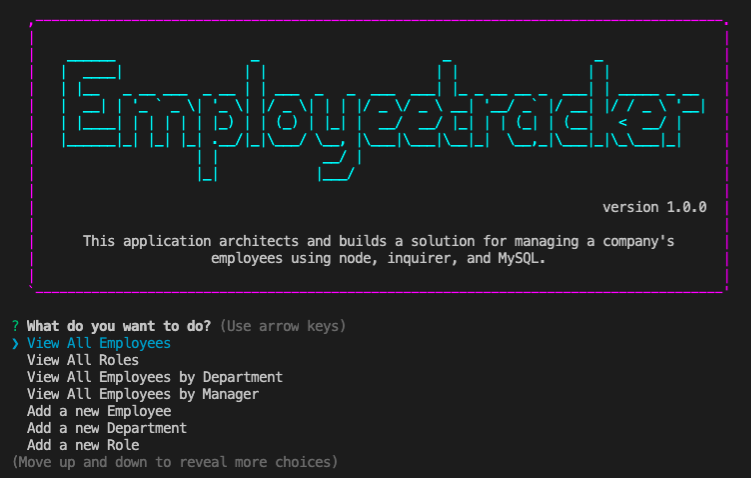
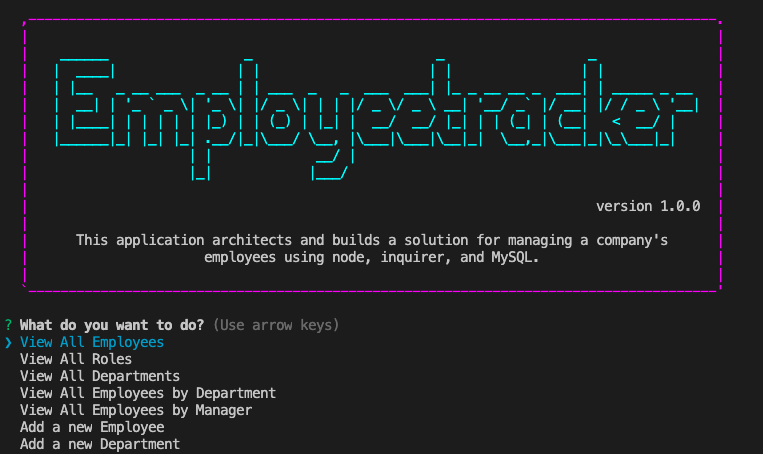
image added, unnecessary codes removed, and updated readme

Changed region(s): [[0.0, 0.0308, 0.98, 1.0]]

diff --git a/server.js b/server.js
@@ -59,6 +59,7 @@ function startSearch() {
         choices: [
           "View All Employees",
           "View All Roles",
+          "View All Departments",
           "View All Employees by Department",
           "View All Employees by Manager",
           "Add a new Employee",
@@ -77,6 +78,10 @@ function startSearch() {
 
         case "View All Roles":
           viewRoles();
+          break;
+
+        case "View All Departments":
+          viewDepts();
           break;
 
         case "View All Employees by Department":
@@ -159,6 +164,25 @@ function viewEmployees() {
 }
 
 // working
+function viewDepts() {
+  const query = "SELECT name FROM department";
+
+  connection.query(query, function (err, res) {
+    if (err) throw err;
+    console.log(
+      chalk.magenta(
+        "\n" + "-----------------DEPARTMENT LIST------------------" + "\n"
+      )
+    );
+    console.table(res);
+    console.log(
+      chalk.magenta("------------------------------------------------------")
+    );
+    startSearch();
+  });
+}
+
+// working
 function viewRoles() {
   const query = "SELECT title, salary FROM role";
 
@@ -196,7 +220,6 @@ function viewEmployeesByDept() {
           "SELECT employee.id, employee.first_name, employee.last_name, role.title, department.name AS department, role.salary FROM employee LEFT JOIN role on employee.role_id = role.id LEFT JOIN department ON role.department_id = department.id WHERE department.name =?";
 
         connection.query(query2, [answer.choices], function (err, res) {
-          console.log(res);
           if (err) throw err;
           console.log(
             chalk.cyan(
